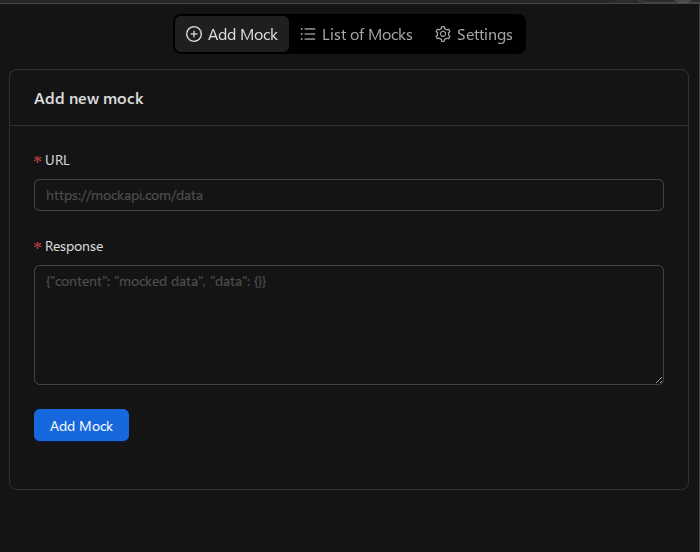
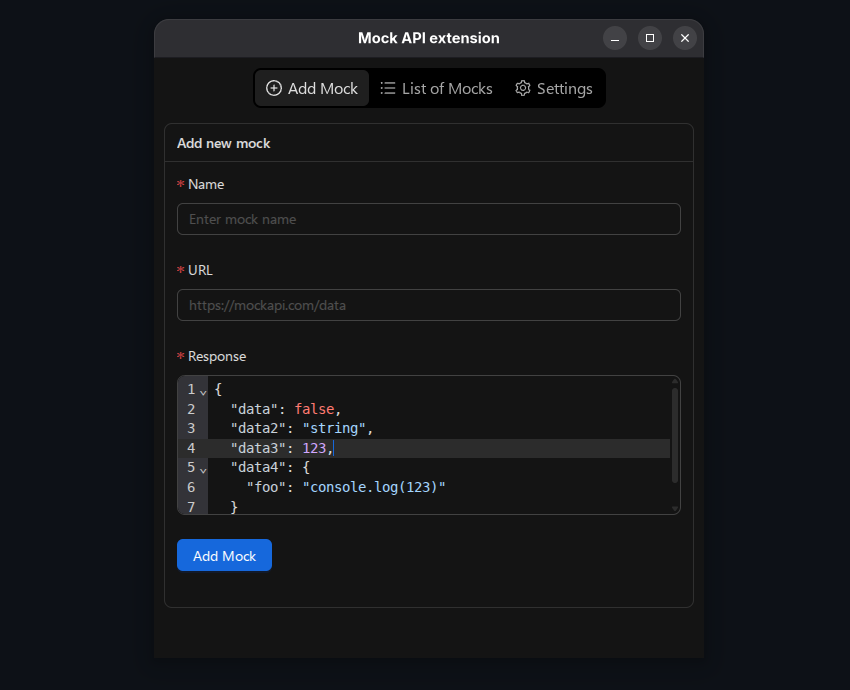
new readme

diff --git a/README.md b/README.md
@@ -11,6 +11,10 @@ Extension for Chromium-based browsers. This extension allows you to mock API req
 - Support for any resources: AJAX (fetch, XMLHttpRequest) and other requests.
 - Easy mocks management: add, edit and delete mocks in the extension interface.
 - Light and dark theme.
+- Selecting the type of display of saved mocks (list/table).
+- Exporting and importing mocks in json format.
+- Handy json editor.
+- Nice UI.
 
 ## How it works
 
@@ -21,10 +25,11 @@ Extension for Chromium-based browsers. This extension allows you to mock API req
 ## Technologies
 
 - React + TypeScript
-- React router
+- react-router
 - Ant Design
 - Chrome Extensions API
 - Vite + yarn
+- react-codemirror
 - FSD architecture
 
 ## Who needs it?
@@ -88,27 +93,21 @@ yarn build
 </p>
 
 <p align="center">
-  <img src="./images/2.png" alt="Список моков (тёмная тема)"/>
-  <br>List of mocks (dark theme)
+  <img src="./images/2.png" alt="Список моков (список)"/>
+  <br>Saved mocks (list variant)
 </p>
 
 <p align="center">
-  <img src="./images/2_light.png" alt="Список моков (светлая тема)"/>
-  <br>List of mocks (light theme)
+  <img src="./images/3.png" alt="Список моков (таблица)"/>
+  <br>Saved mocks (table variant)
 </p>
 
 <p align="center">
-  <img src="./images/3.png" alt="Настройки"/>
+  <img src="./images/4.png" alt="Настройки темная тема"/>
   <br>Settings
 </p>
 
 <p align="center">
-  <img src="./images/use_1.png" alt="Пример - До"/>
-  <br>Example of using the extension. The mocks are turned off.
-</p>
-
-<p align="center">
-  <img src="./images/use_2.png" alt="Пример - После"/>
-  <br>
-An example of how to use the extension. Mocks enabled.
+  <img src="./images/5.png" alt="Настройки светлая тема"/>
+  <br>Settings (light theme)
 </p>
